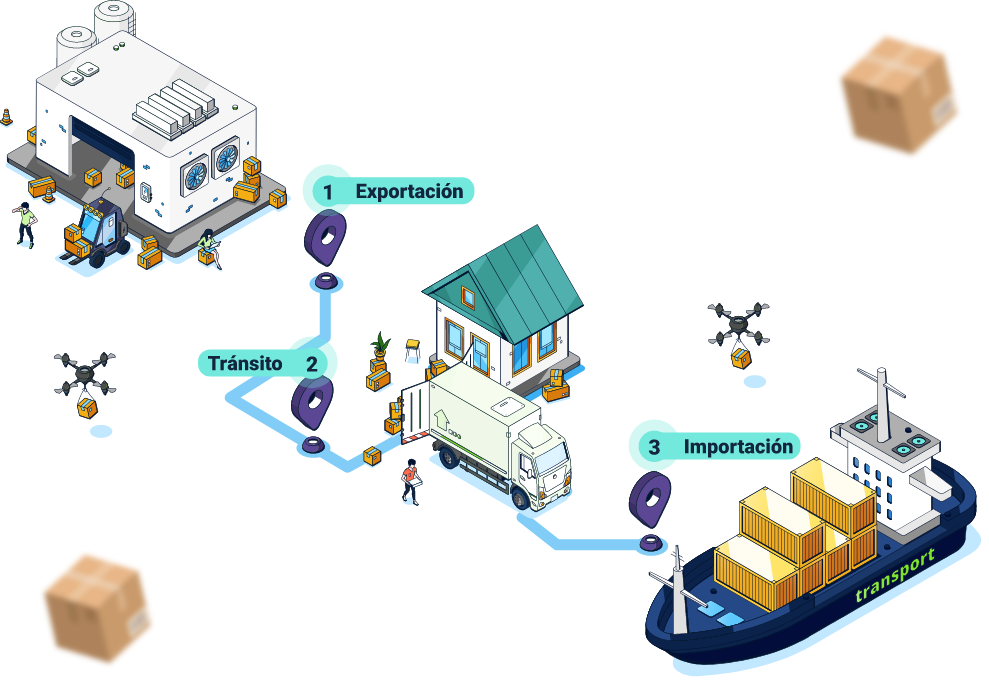
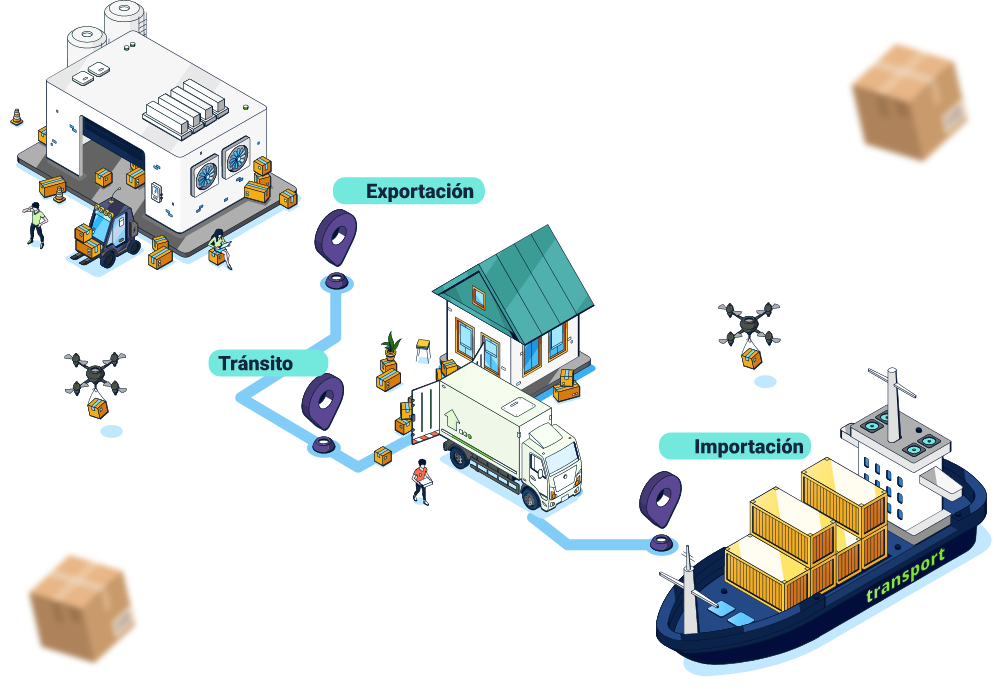
Correcciones 5
Se aplican ajustes.

diff --git a/src/views/Tema1.vue b/src/views/Tema1.vue
@@ -12,17 +12,139 @@
     .row.bg-color1.mb-2(data-aos="fade-left")
       .col-12.p-5
         .row.justify-content-center
-          .col-10.d-none.d-md-block
-            figure
-              img(src='@/assets/curso/tema1/img9.png' style="width: 850px").m-auto
-          .col-10.d-block.d-md-none
-            figure
-              img(src='@/assets/curso/tema1/img9b.png' style="width: 850px").m-auto
+          .col-lg-10.d-none.d-md-block
+            ImagenInfografica.color-acento-botones
+              template(v-slot:imagen)
+                figure
+                  img(src='@/assets/curso/tema1/img9.png')
+                  figcaption Leyenda de la imagen
+              .tarjeta.color-acento-botones.p-3(x="35%" y="26%" numero="1")
+                ul.lista-ul
+                  li 
+                    i.fas.fa-angle-right(style="color: #FF6D4B")
+                    |
+                    p.mb-0 Transportista
+                  li 
+                    i.fas.fa-angle-right(style="color: #FF6D4B")
+                    |
+                    p.mb-0 Agencia aduanera
+                  li 
+                    i.fas.fa-angle-right(style="color: #FF6D4B")
+                    |
+                    p.mb-0 EPSA
+                  li 
+                    i.fas.fa-angle-right(style="color: #FF6D4B")
+                    |
+                    p.mb-0 Terminal
+                  li 
+                    i.fas.fa-angle-right(style="color: #FF6D4B")
+                    |
+                    p.mb-0 Extraportuario
+              .tarjeta.color-acento-botones.p-3(x="31%" y="49.5%" numero="2")
+                ul.lista-ul
+                  li 
+                    i.fas.fa-angle-right(style="color: #FF6D4B")
+                    |
+                    p.mb-0 Agencia aduanera
+                  li 
+                    i.fas.fa-angle-right(style="color: #FF6D4B")
+                    |
+                    p.mb-0 Terminal
+                  li 
+                    i.fas.fa-angle-right(style="color: #FF6D4B")
+                    |
+                    p.mb-0 SAG
+                  li 
+                    i.fas.fa-angle-right(style="color: #FF6D4B")
+                    |
+                    p.mb-0 SNA
+              .tarjeta.color-acento-botones.p-3(x="67%" y="60.7%" numero="3")
+                ul.lista-ul
+                  li 
+                    i.fas.fa-angle-right(style="color: #FF6D4B")
+                    |
+                    p.mb-0 EPSA
+                  li 
+                    i.fas.fa-angle-right(style="color: #FF6D4B")
+                    |
+                    p.mb-0 Agencia naviera
+                  li 
+                    i.fas.fa-angle-right(style="color: #FF6D4B")
+                    |
+                    p.mb-0 Terminal
+                  li 
+                    i.fas.fa-angle-right(style="color: #FF6D4B")
+                    |
+                    p.mb-0 SNA
+          .col-lg-10.d-block.d-md-none
+            ImagenInfografica.color-acento-botones
+              template(v-slot:imagen)
+                figure
+                  img(src='@/assets/curso/tema1/img9b.png')
+                  figcaption Leyenda de la imagen
+              .tarjeta.color-acento-botones.p-3(x="50%" y="28%" numero="1")
+                ul.lista-ul
+                  li 
+                    i.fas.fa-angle-right(style="color: #FF6D4B")
+                    |
+                    p.mb-0 Transportista
+                  li 
+                    i.fas.fa-angle-right(style="color: #FF6D4B")
+                    |
+                    p.mb-0 Agencia aduanera
+                  li 
+                    i.fas.fa-angle-right(style="color: #FF6D4B")
+                    |
+                    p.mb-0 EPSA
+                  li 
+                    i.fas.fa-angle-right(style="color: #FF6D4B")
+                    |
+                    p.mb-0 Terminal
+                  li 
+                    i.fas.fa-angle-right(style="color: #FF6D4B")
+                    |
+                    p.mb-0 Extraportuario
+              .tarjeta.color-acento-botones.p-3(x="22%" y="37%" numero="2")
+                ul.lista-ul
+                  li 
+                    i.fas.fa-angle-right(style="color: #FF6D4B")
+                    |
+                    p.mb-0 Agencia aduanera
+                  li 
+                    i.fas.fa-angle-right(style="color: #FF6D4B")
+                    |
+                    p.mb-0 Terminal
+                  li 
+                    i.fas.fa-angle-right(style="color: #FF6D4B")
+                    |
+                    p.mb-0 SAG
+                  li 
+                    i.fas.fa-angle-right(style="color: #FF6D4B")
+                    |
+                    p.mb-0 SNA
+              .tarjeta.color-acento-botones.p-3(x="34%" y="66%" numero="3")
+                ul.lista-ul
+                  li 
+                    i.fas.fa-angle-right(style="color: #FF6D4B")
+                    |
+                    p.mb-0 EPSA
+                  li 
+                    i.fas.fa-angle-right(style="color: #FF6D4B")
+                    |
+                    p.mb-0 Agencia naviera
+                  li 
+                    i.fas.fa-angle-right(style="color: #FF6D4B")
+                    |
+                    p.mb-0 Terminal
+                  li 
+                    i.fas.fa-angle-right(style="color: #FF6D4B")
+                    |
+                    p.mb-0 SNA
     .row.mb-5
       .col-12.bg-color2.p-2
         p.mb-0 Nota. Fundación valenciaport (2021).
     .row(data-aos="fade-right")
-      .col-xl.mb-4.mb-lg-0
+      .col-xl.mb-4.mb-xl-0
         p El desarrollo tecnológico permite a las empresas, probar y/o crear equipos, productos y procesos en un ambiente virtual antes de ser pasados a un mundo real. Así, se pueden detectar a tiempo situaciones de riesgo, realizar pruebas y configurar diferentes escenarios. En conclusión, la simulación es un proceso que genera una base para la experimentación, creando flexibilidad y una mejor productividad de los negocios.
         p La simulación permite una sincronización en los procesos logísticos, además ocupa un papel importante en el diseño, ejecución y control de estos.
       .col-xl-auto

diff --git a/src/styles/_custom.sass b/src/styles/_custom.sass
@@ -114,7 +114,7 @@
   background-color: #5B4794
   color: white
 
-.tabs-c__tab
+.tabs-c.color-acento-contenido .tabs-c__tab--active
   font-weight: bold
 
 .bg-color1
@@ -181,7 +181,7 @@
   height: 50px
 
 .bg-color14
-  background: rgba(255, 186, 91, .8)
+  background: rgba(255, 186, 91, .9)
   height: 270px
 
 .bg-color15
@@ -194,7 +194,7 @@
 
 .bg-color17
   background-color: #FEE8B3
-  height: 190px
+  height: 210px
 
 .fig-p1
   position: absolute
